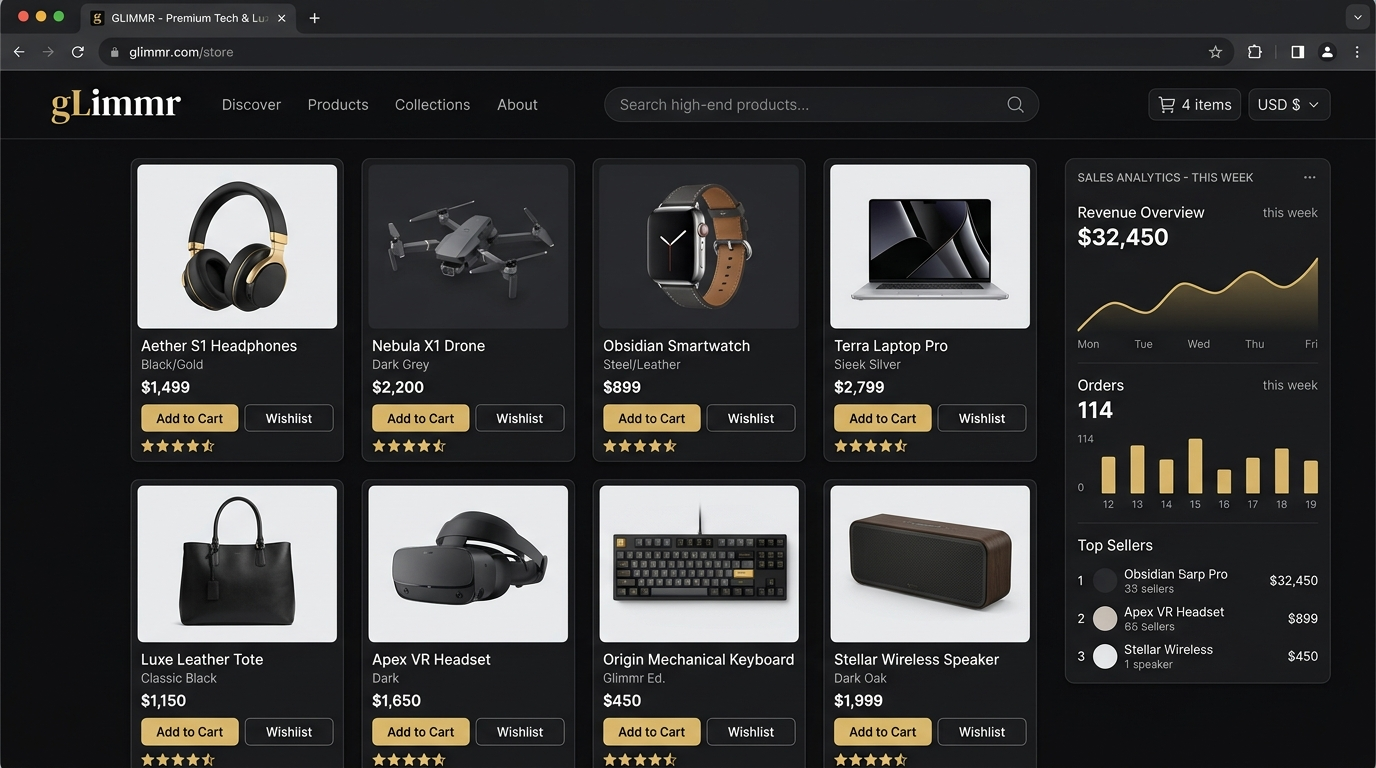
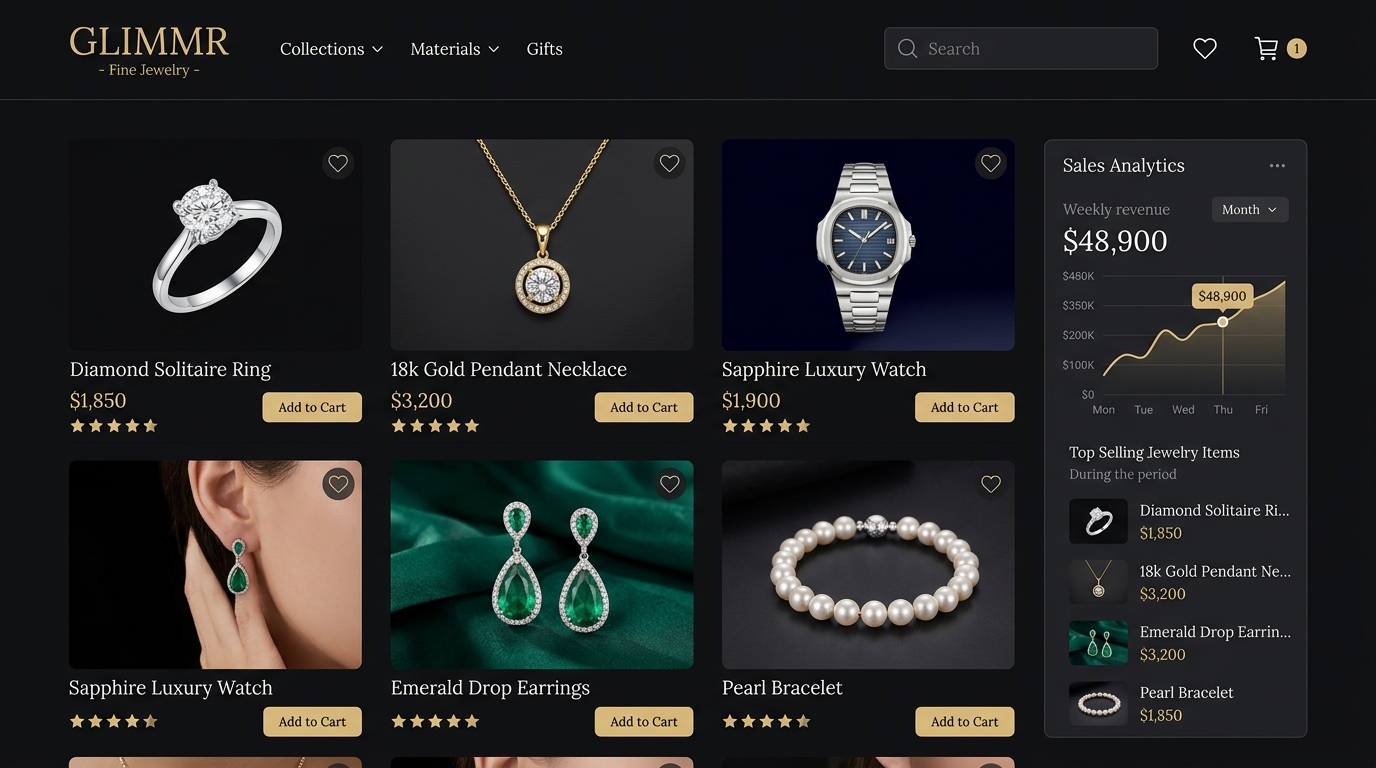
Update GLIMMR to luxury fine jewelry e-commerce UI mockup and project description

diff --git a/src/components/Projects/Projects.jsx b/src/components/Projects/Projects.jsx
@@ -16,9 +16,9 @@ const PROJECTS_DATA = [
   },
   {
     id: 2,
-    category: 'Full-Stack E-Commerce Platform',
+    category: 'Full-Stack Luxury Jewelry E-Commerce Platform',
     title: 'GLIMMR',
-    description: 'Engineered a dual-backend e-commerce platform with Python/Flask analytics service and Node.js/Express.js REST API server (15+ endpoints) secured with JWT auth, input validation, and OOP/MVC architecture handling 500+ product SKUs. Designed normalized MySQL schemas via SQLAlchemy ORM for orders/users and MongoDB/Mongoose for product catalog. Automated Pandas-based sales analytics pipelines generating weekly revenue reports; containerized and deployed on Linux via GitHub Actions CI/CD.',
+    description: 'Engineered a dual-backend luxury jewelry e-commerce platform featuring high-end diamond rings, 18k gold necklaces, and luxury watches with Python/Flask analytics service and Node.js/Express.js REST API server (15+ endpoints) secured with JWT auth, input validation, and OOP/MVC architecture handling 500+ fine jewelry SKUs. Designed normalized MySQL schemas via SQLAlchemy ORM for orders/users and MongoDB/Mongoose for product catalog. Automated Pandas-based sales analytics pipelines generating weekly revenue reports; containerized and deployed on Linux via GitHub Actions CI/CD.',
     techStack: ['Python', 'Flask', 'Node.js', 'Express.js', 'MongoDB', 'MySQL', 'SQLAlchemy', 'Pandas', 'JWT', 'Docker', 'GitHub Actions', 'Linux'],
     image: '/assets/project2.png',
     liveUrl: 'https://glimmr-store.vercel.app/',
